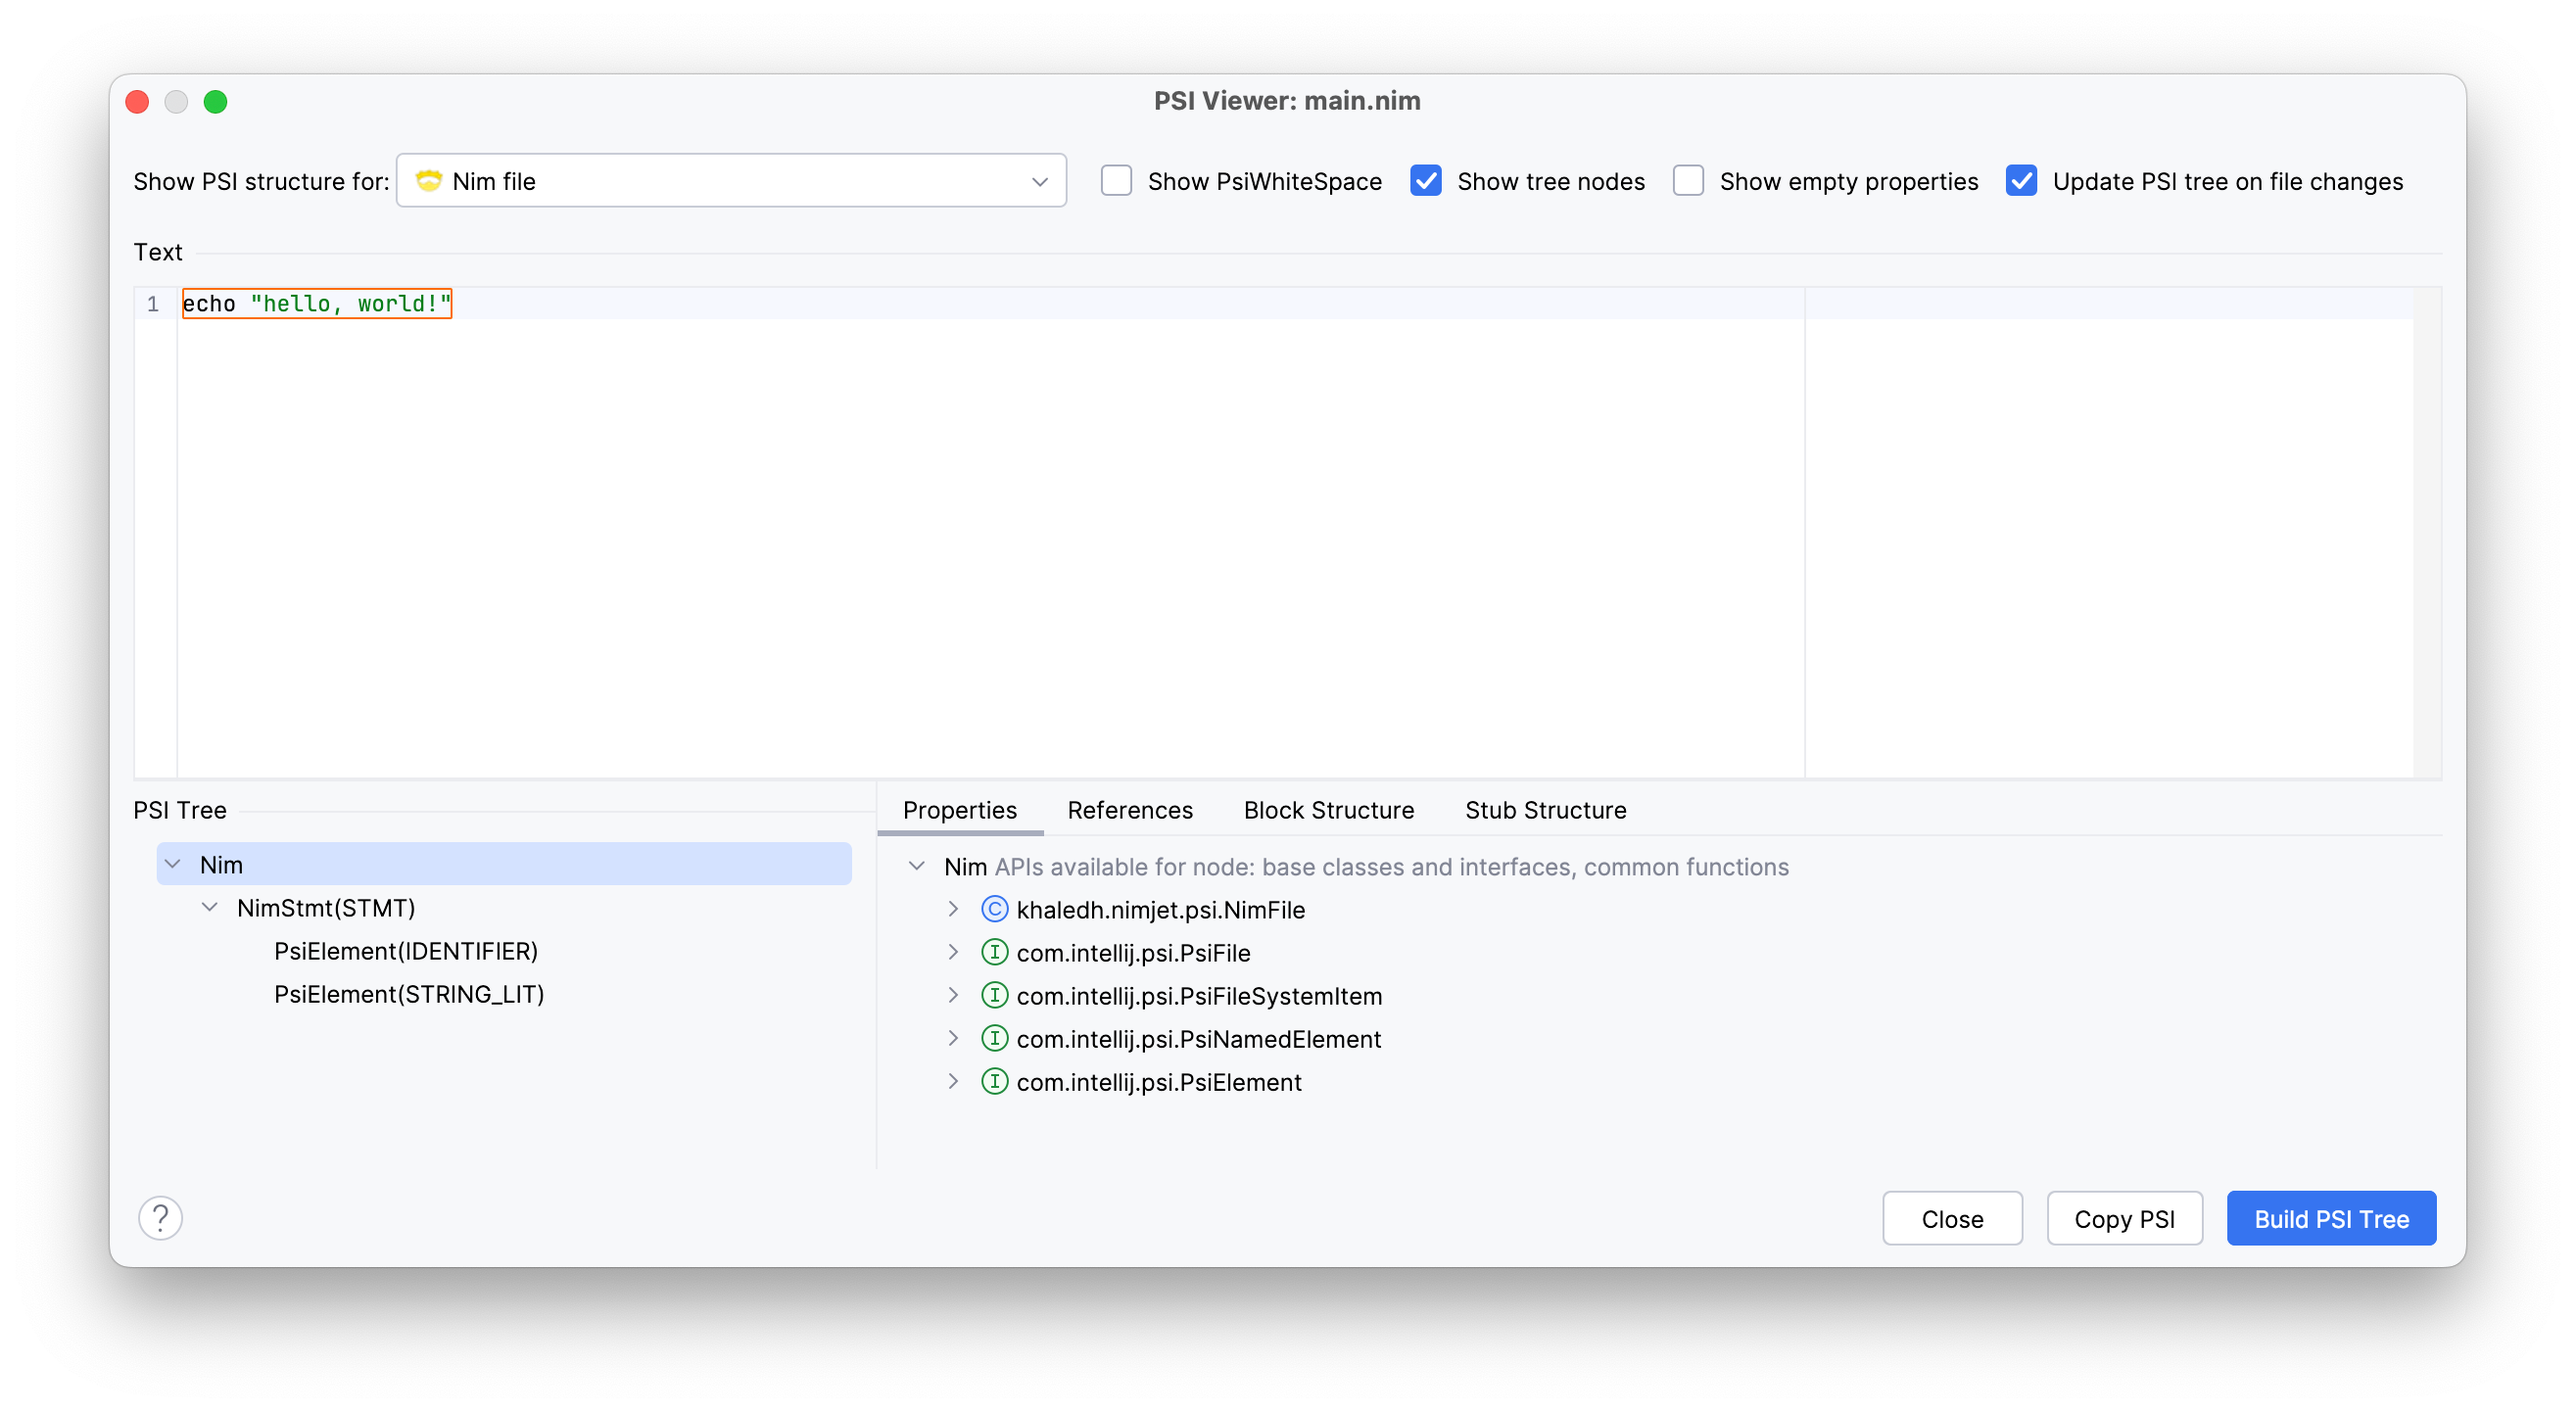
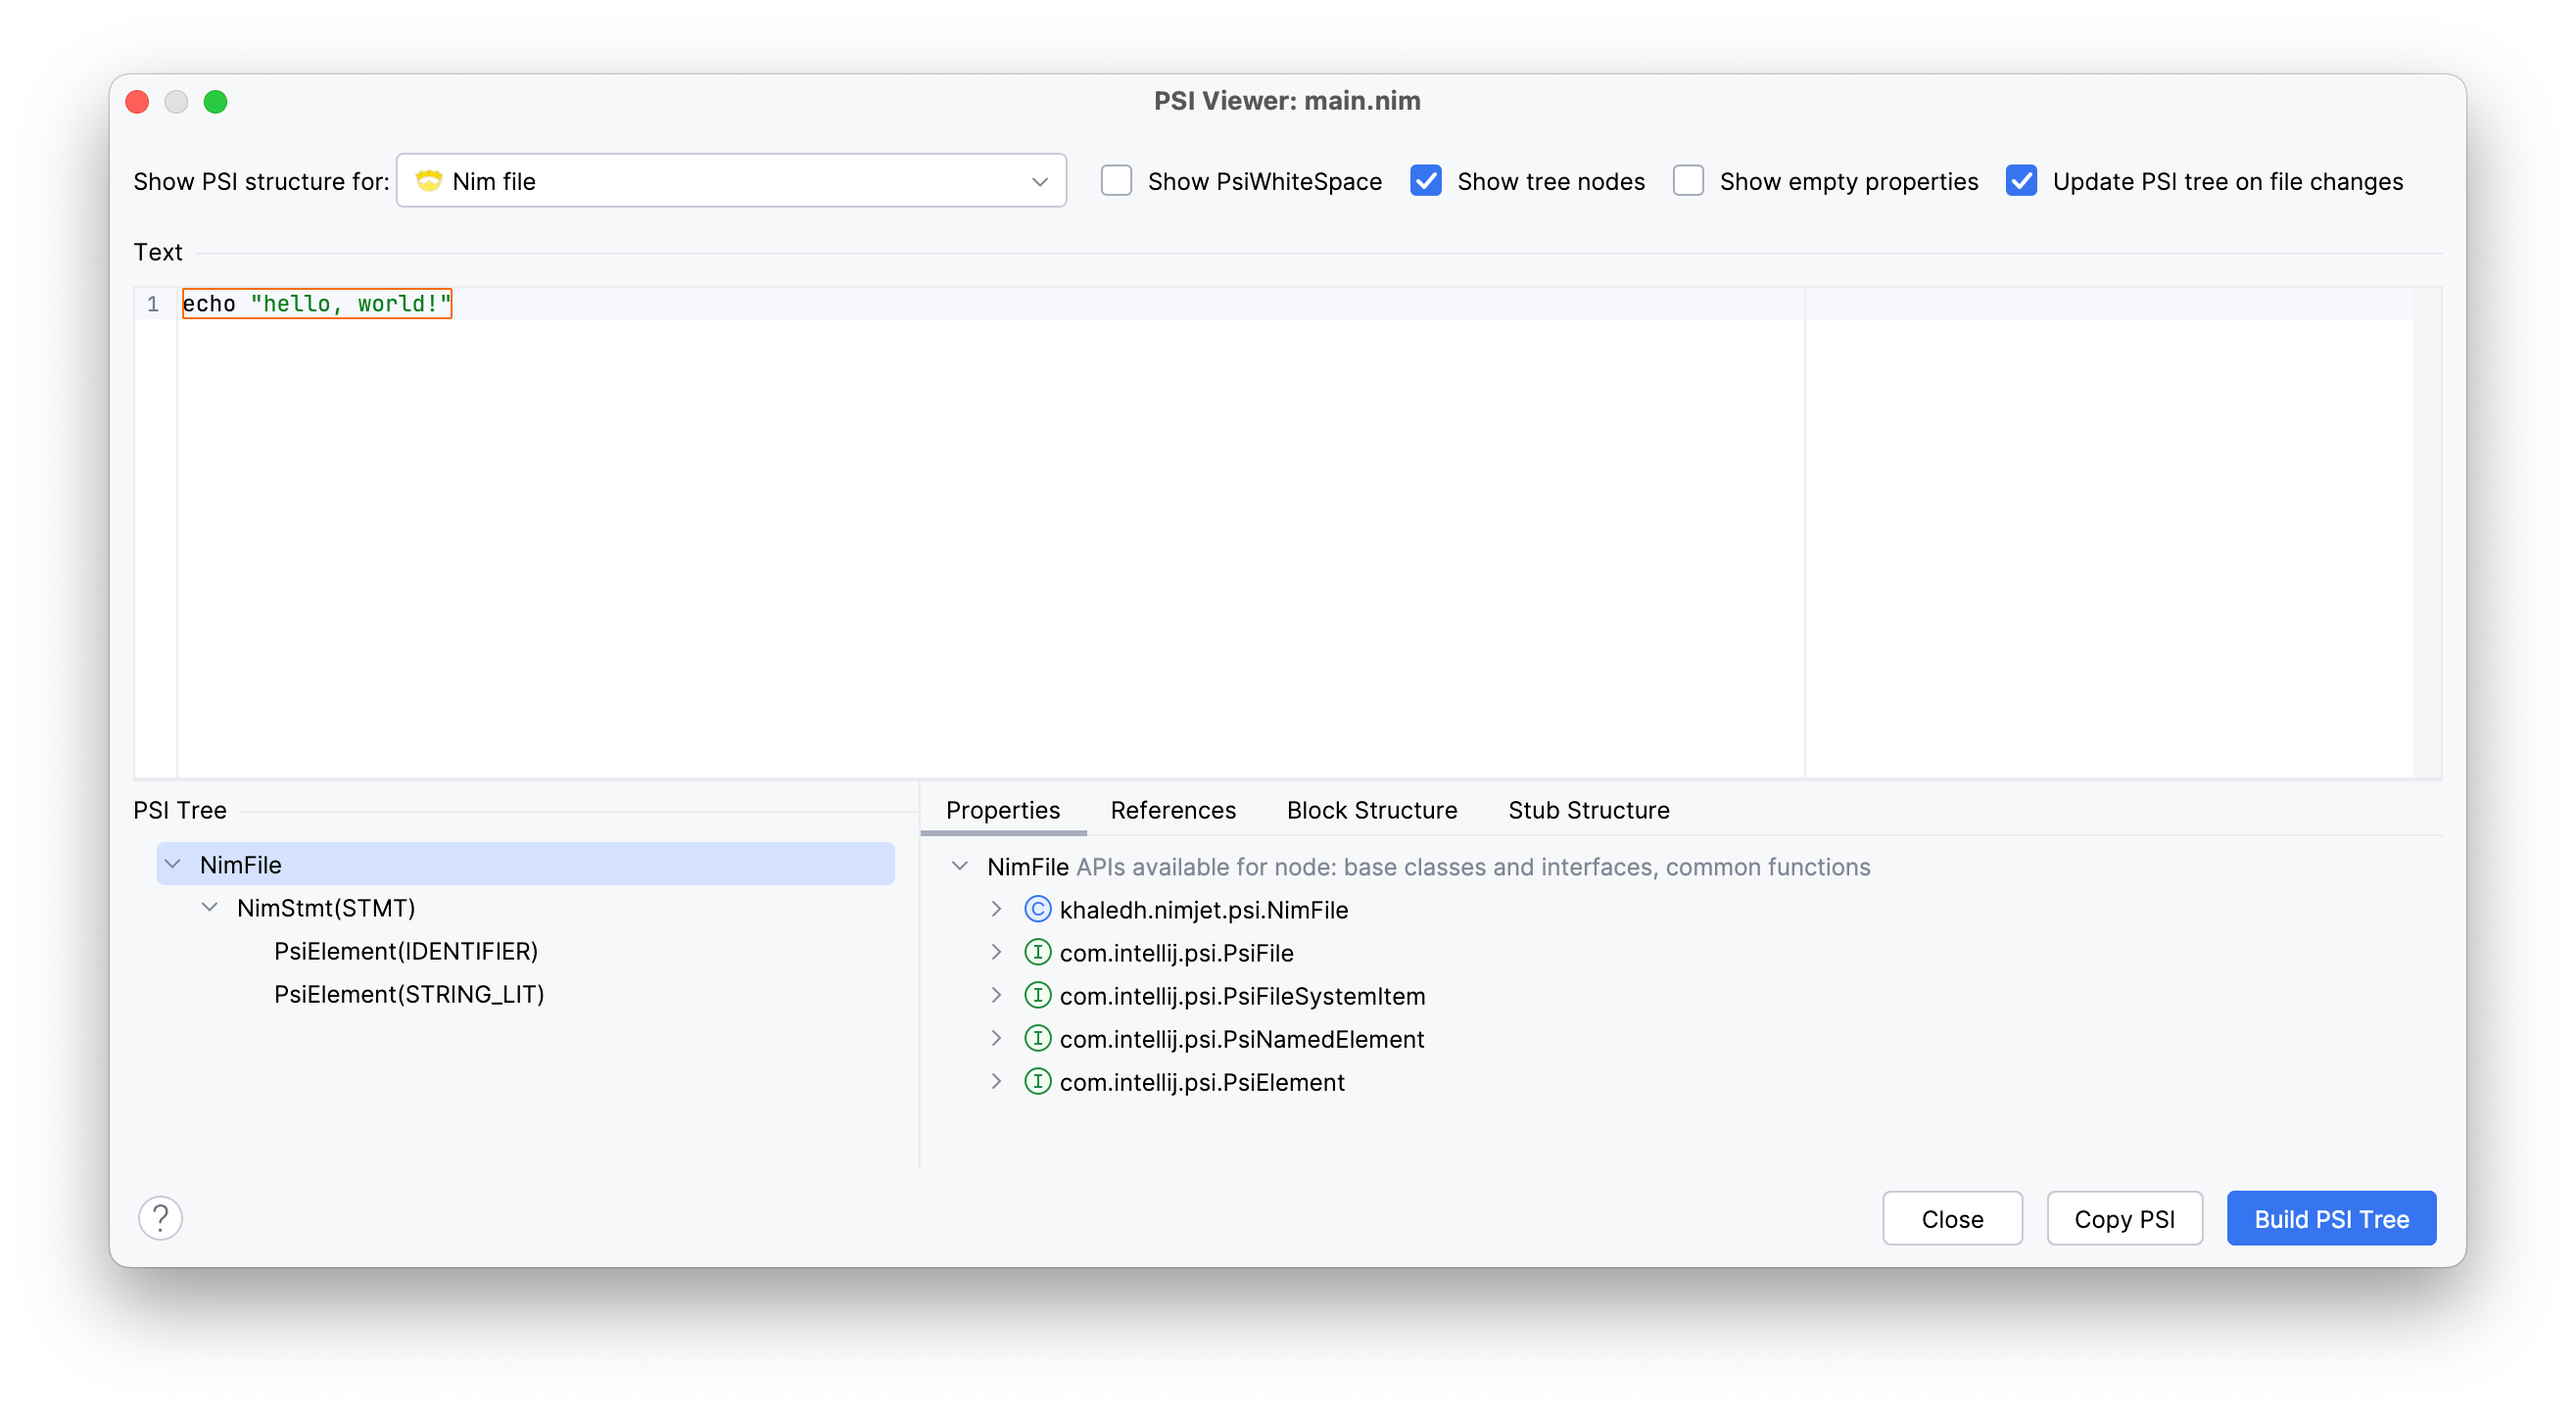
update parser implementation

Changed region(s): [[0.3118, 0.5617, 0.7171, 0.7802]]

diff --git a/docs/nimjet/06-parser-p2.md b/docs/nimjet/06-parser-p2.md
@@ -71,8 +71,16 @@ functionality to them later. First, let's define the root PSI element, `NimFile`
 // src/main/kotlin/khaledh/nimjet/psi/NimFile.kt
 ...
 
-class NimFile(viewProvider: FileViewProvider) : PsiFileBase(viewProvider, NimLanguage)
+class NimFile(viewProvider: FileViewProvider) : PsiFileBase(viewProvider, NimLanguage) {
+    override fun getFileType(): FileType = NimFileType
+    override fun toString(): String = "NimFile"
+}
 ```
+
+The `NimFile` class extends `PsiFileBase`, which is a base class that provides a default
+implementation for the `PsiFile` interface methods. We override `getFileType` to return
+our `NimFileType` instance, and `toString` to return a string representation of the PSI
+file node.
 
 Next, we define the PSI element for the statement, `NimStmt`:
 
@@ -263,3 +271,94 @@ Now, open the PSI viewer from the **Tools | View PSI Structure of Current File**
 Great! We can see the PSI tree with the `NimFile` and `NimStmt` nodes, in addition to the
 `IDENTIFIER` and `STRING_LIT` tokens under the `NimStmt` node. Our simple parser is
 working as expected.
+
+## Error Handling
+
+Let's add error handling to our parser to make it more robust. We'll change the parser 
+to detect and recover from errors, and report them to the user. We'll make each parsing
+method return a boolean indicating whether the rule was successfully parsed. If a rule
+fails, we'll mark the region as _error_ and return early. Since returning early means 
+that not all tokens are consumed, we need to advance the lexer to the end of the token 
+stream to ensure that the PSI tree is properly built (this is a requirement of the
+`PsiBuilder`).
+
+Here's the updated parser:
+
+```kotlin
+// src/main/kotlin/khaledh/nimjet/NimParser.kt
+...
+
+class NimParser : PsiParser  {
+
+    // Grammar:
+    //   file ::= stmt
+    //   stmt ::= IDENTIFIER STRING_LIT
+
+    override fun parse(root: IElementType, builder: PsiBuilder): ASTNode {
+        parseFile(root, builder)
+        return builder.treeBuilt
+    }
+
+    private fun parseFile(root: IElementType, builder: PsiBuilder) {
+        var marker = builder.mark()
+
+        if (!builder.eof()) {
+            parseStmt(builder)
+        }
+
+        // consume any remaining tokens (in case of error)
+        while (!builder.eof()) {
+            builder.advanceLexer()
+        }
+
+        marker.done(NimElement.FILE)
+    }
+
+    private fun parseStmt(builder: PsiBuilder): Boolean {
+        var marker = builder.mark()
+
+        if (builder.tokenType != NimToken.IDENTIFIER) {
+            reportError(builder, "Expecting an identifier")
+            marker.drop()
+            return false
+        }
+        builder.advanceLexer()
+
+        if (builder.tokenType != NimToken.STRING_LIT) {
+            reportError(builder, "Expecting a string literal")
+            marker.drop()
+            return false
+        }
+        builder.advanceLexer()
+
+        marker.done(NimElement.STMT)
+        return true
+    }
+
+    private fun reportError(builder: PsiBuilder, message: String) {
+        var marker = builder.mark()
+        builder.advanceLexer()
+        marker.error(message)
+    }
+}
+```
+
+We added a check for the end of the token stream in the `parseFile` method to ensure that
+we don't try to parse an empty file. The `reportError` method is used to mark the region
+as an error and report the error message to the user. If a rule fails, we drop the marker
+and return `false` to indicate that the rule was not successfully parsed.
+
+Let's run the plugin again and test the error handling by creating a file with the 
+contents `echo hello` (missing the string quotation marks).
+
+<p style="text-align: center">
+  <img src="./images/psi-error.png" alt="PSI Error Reporting" width="550"/>
+</p>
+
+And it works! The token `hello` is marked as an error with a red squiggly line, and 
+our error message is displayed when we hover over the token.
+
+OK, we now have a good understanding of how to implement a parser by hand. In the next
+section, we will look at how to generate a parser using Grammar-Kit by defining the
+grammar in a BNF-like format. This will allow us to focus on the language grammar rules
+without worrying about the details of the lexer and parser implementation.
